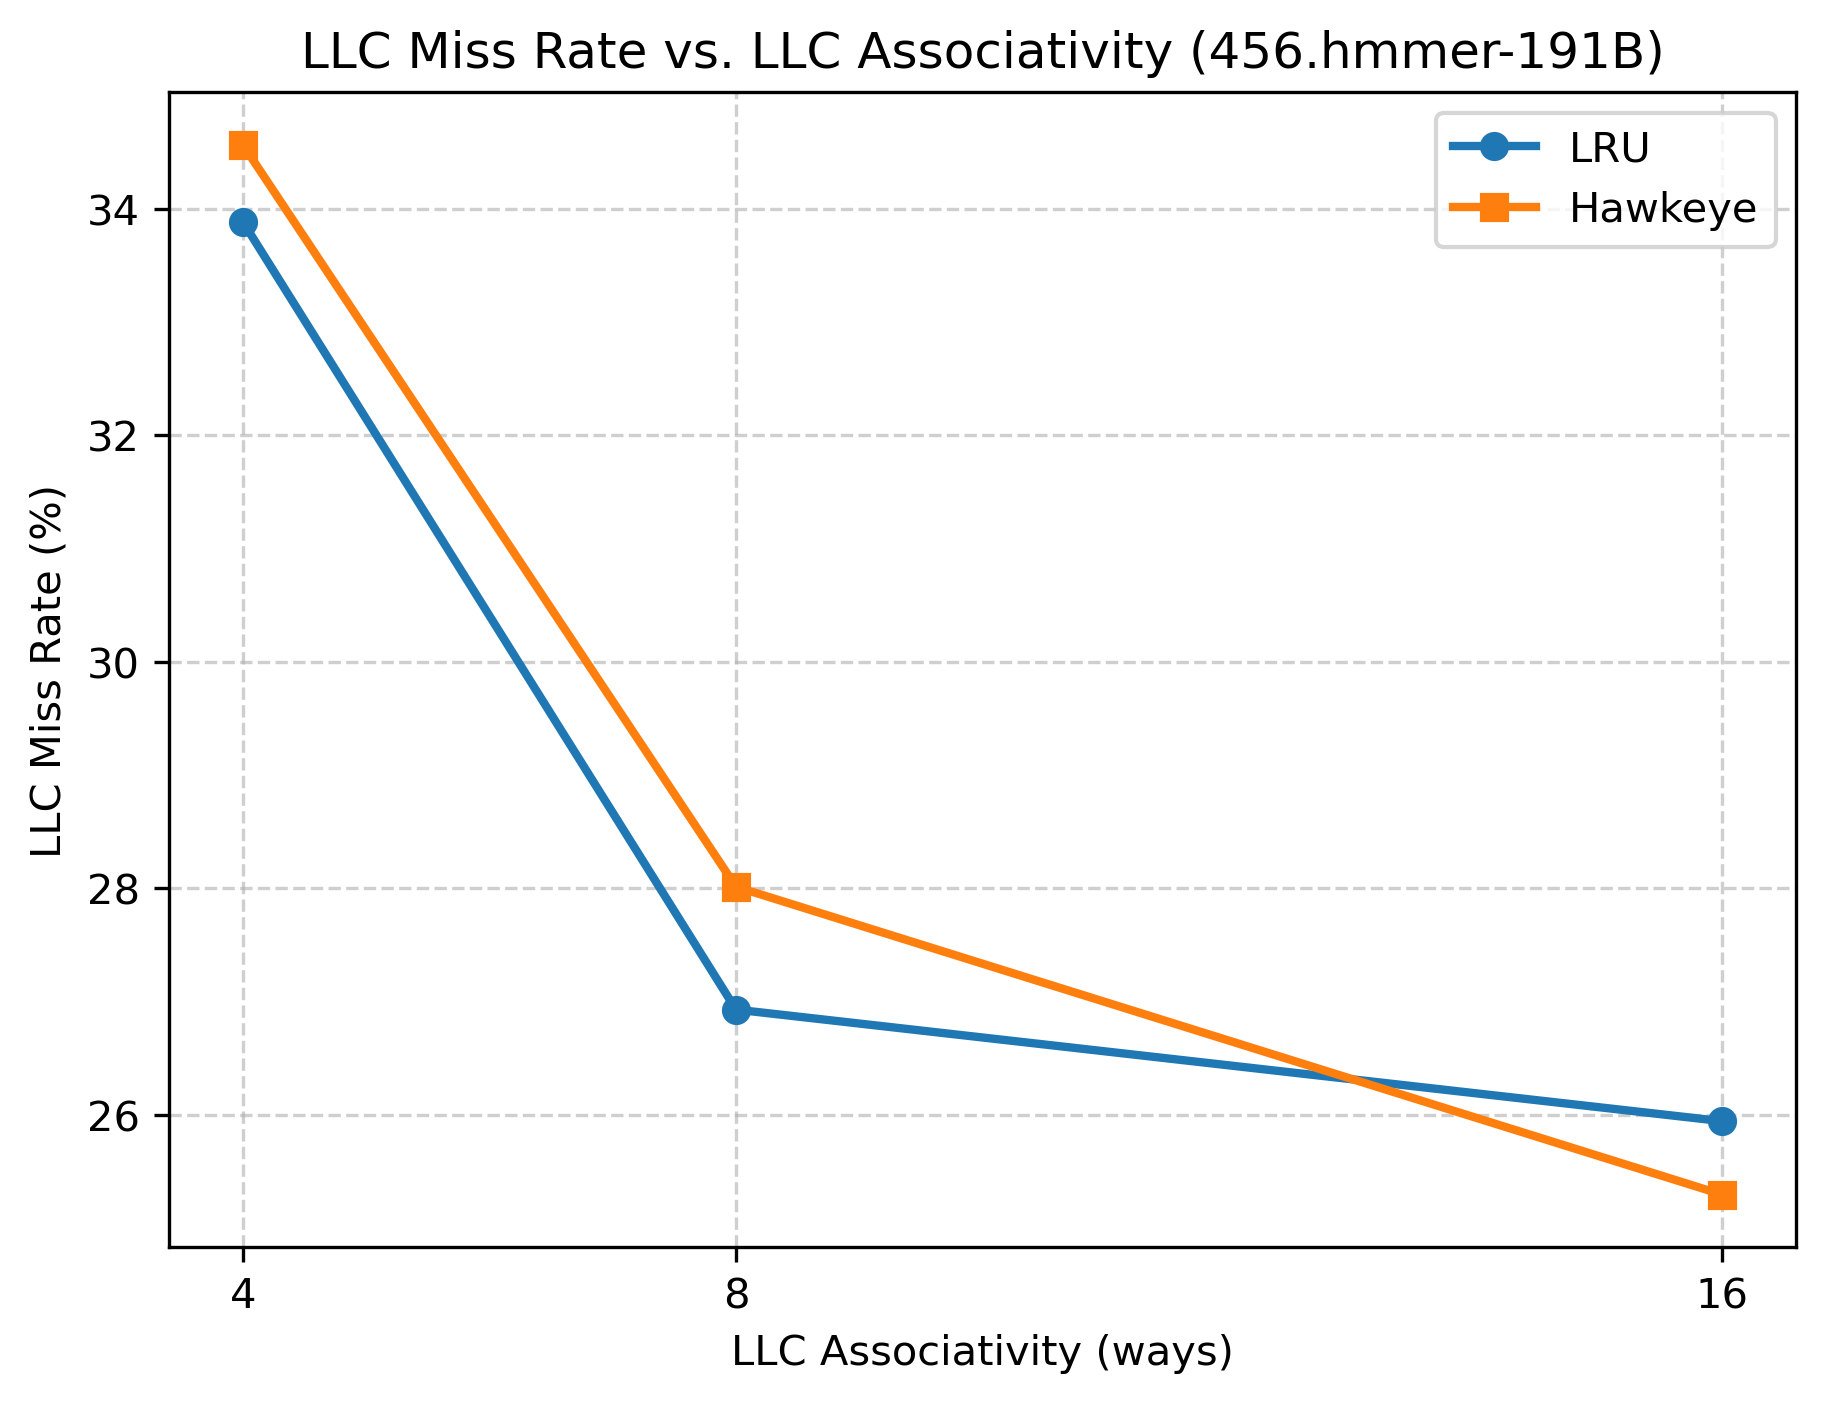
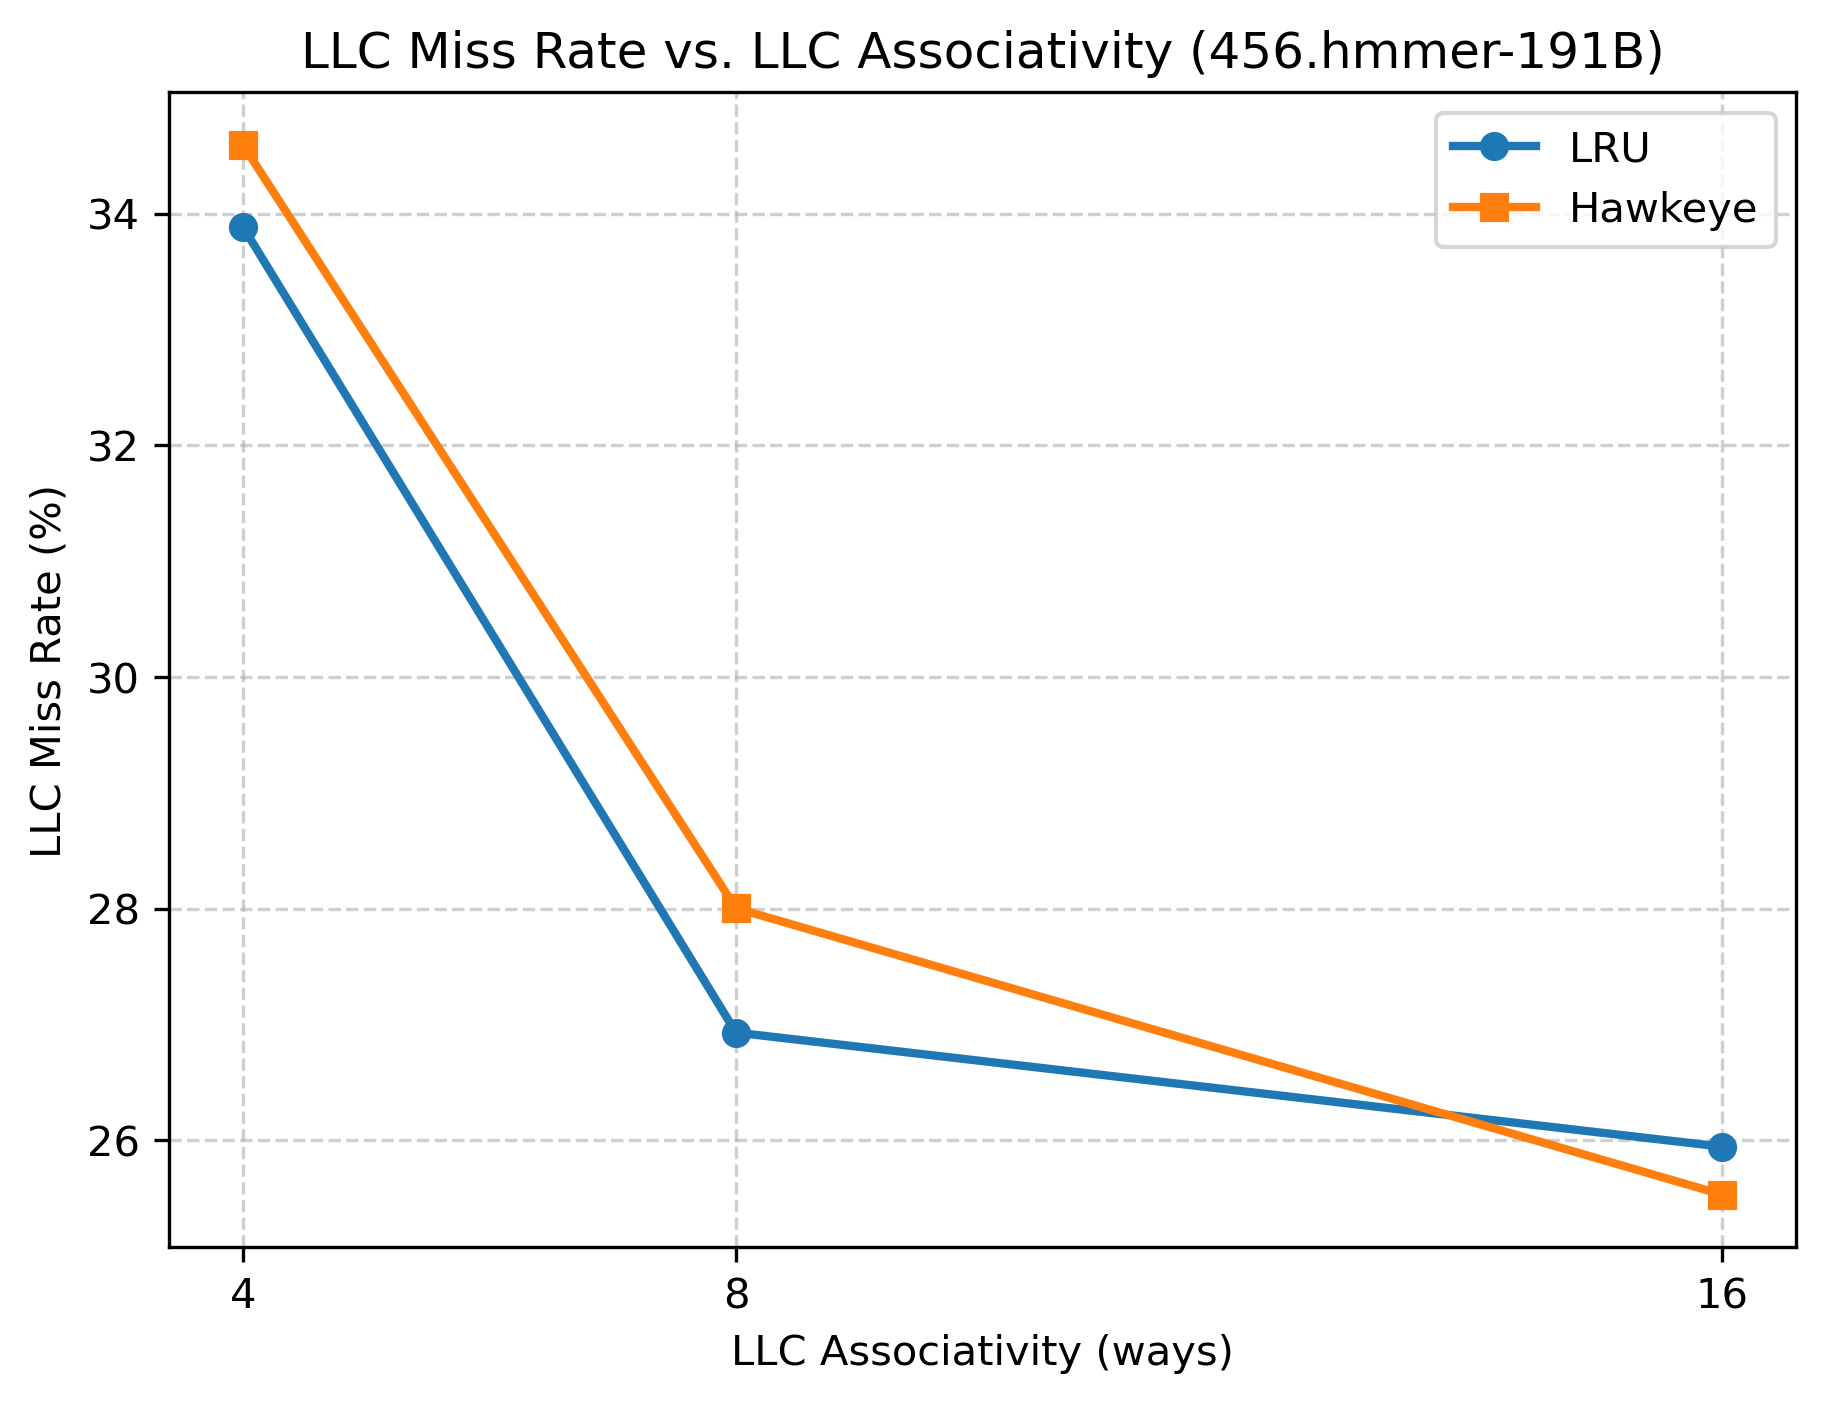
updated rrip implementation and plots

diff --git a/replacement/hawkeye/rrip.cc b/replacement/hawkeye/rrip.cc
@@ -44,14 +44,14 @@ std::size_t find_victim(std::vector<int>& rrpv){
         if(rrpv[i] == MAX_RRPV) return i;
     }
 
-    // no averse line, so evict the oldest cache-friendly one. 
-    std::size_t victim = 0;
-    int highest = -1;
+    // no line at 7, so age the set until the oldest reaches 7 and evict that
+    int highest = *std::max_element(rrpv.begin(), rrpv.end());
+    int shift = MAX_RRPV - highest;
+    for(auto& v : rrpv) v += shift;
+
     for(std::size_t i = 0; i < rrpv.size(); i++){
-        if(rrpv[i] >= highest){
-            highest = rrpv[i];
-            victim = i;
-        }
+        if(rrpv[i] == MAX_RRPV) return i;
     }
-    return victim;
+
+    return 0;
 }

diff --git a/RESULTS.md b/RESULTS.md
@@ -1,17 +1,14 @@
-# Hawkeye Cache Replacement — Results
+--- Plot 1 data ---
+ 4-way:  LRU =  33.89%   Hawkeye =  34.59%
+ 8-way:  LRU =  26.93%   Hawkeye =  28.00%
+16-way:  LRU =  25.94%   Hawkeye =  25.53%
 
-## Plot 1 — LLC miss rate vs. associativity (456.hmmer-191B)
+Saved plot1_associativity.png
 
-| Ways | Sets | LRU miss rate | Hawkeye miss rate |
-|-----:|-----:|--------------:|------------------:|
-| 4    | 8192 | 33.89%        | 34.59%            |
-| 8    | 4096 | 26.93%        | 28.00%            |
-| 16   | 2048 | 25.94%        | 25.30%            |
+--- Plot 2 data ---
+hmmer : LRU =  25.94%   Hawkeye =  25.53%   reduction =   1.60%
+mcf   : LRU =  64.82%   Hawkeye =  64.61%   reduction =   0.32%
+astar : LRU =  19.63%   Hawkeye =  19.50%   reduction =   0.70%
 
-## Plot 2 — LLC miss-rate reduction over LRU (2048 sets x 16 ways)
+Saved plot2_reduction.png
 
-| Benchmark        | LRU miss rate | Hawkeye miss rate | Reduction |
-|------------------|--------------:|------------------:|----------:|
-| 456.hmmer-191B   | 25.94%        | 25.30%            | +2.48%    |
-| 429.mcf-22B      | 64.82%        | 64.59%            | +0.36%    |
-| 473.astar-42B    | 19.63%        | 19.50%            | +0.68%    |
